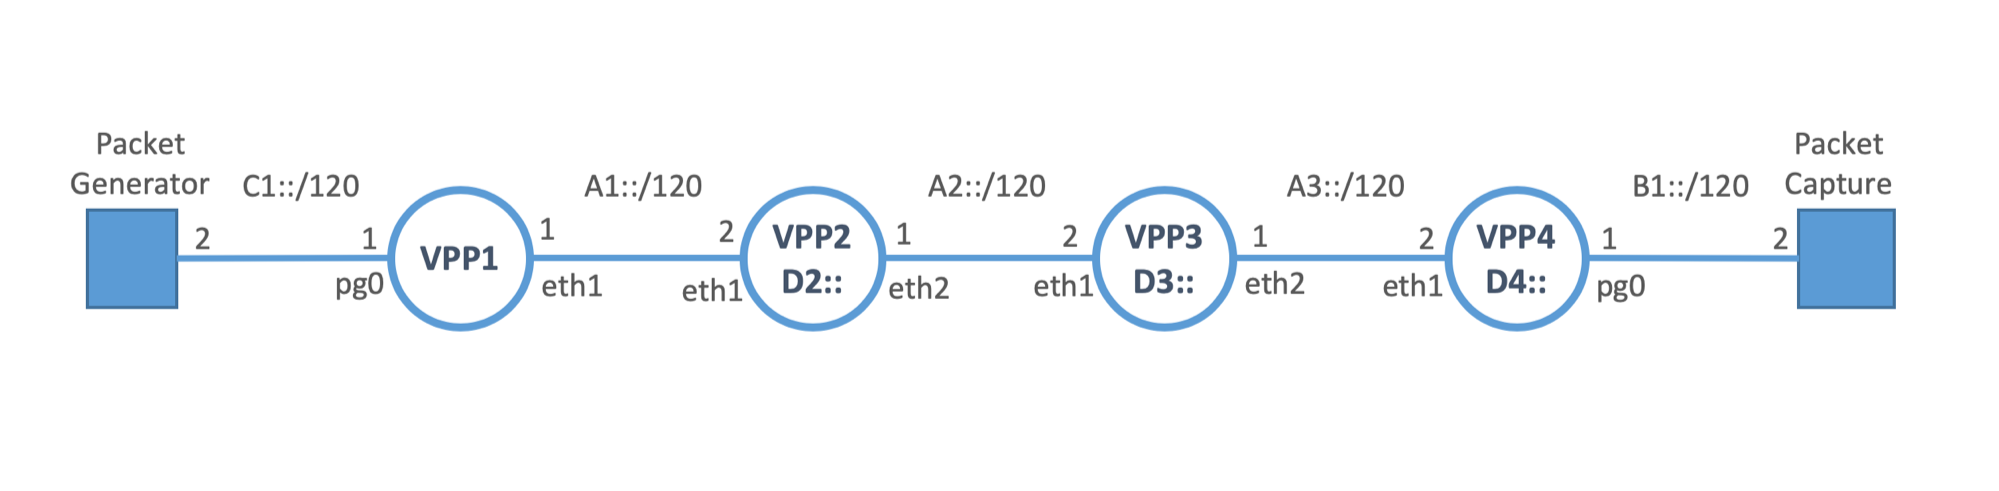
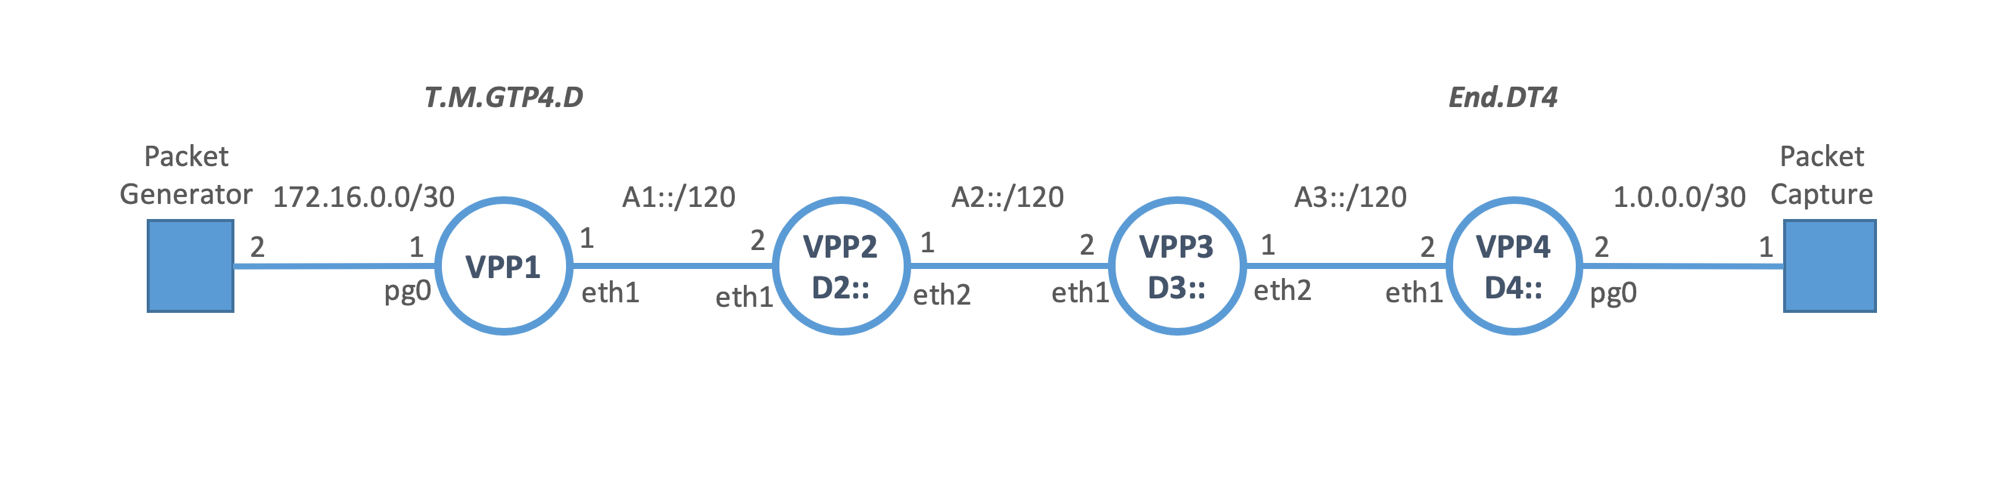
add text anf figure to test cases.

Changed region(s): [[0.031, 0.2784, 0.9615, 0.7113], [0.2171, 0.1546, 0.3102, 0.2165], [0.7134, 0.1546, 0.7754, 0.2165]]

diff --git a/README.md b/README.md
@@ -91,41 +91,61 @@ connecting to: hck-vpp-1
 vpp#
 ```
 
-### Test Scenarios
-#### SRv6 Drop-in for GTP-U/UDP/IPv4
+## Test Scenarios
+### SRv6 Drop-in between GTP-U tunnel
 
-![Topology Diagram](extras/ietf105/topo-test_gtp4.png)
+This test scenario introduces SRv6 path between GTP-U tunnel transparently. A GTP-U packet sent out from one end to another is translated to SRv6 and then back to GTP-U. All GTP-U tunnel identifiers are preserved in IPv6 header and SRH.
 
-IPv4 payload over GTP-U:
+
+#### GTP-U over UDP/IPv4 case
+
+This case uses SRv6 end functions, T.M.GTP4.D and End.M.GTP4.E.
+
+![Topology Diagram](extras/ietf105/topo-test_gtp4d.png)
+
+VPP1 is configured with "T.M.GTP4.D", and VPP4 is configured with "End.M.GTP4.E". Others are configured with "End". The packet generator sends a GTP-U packet over UDP/IPv4 toward the packet capture. VPP1 translates it to SRv6 toward D4::TEID with SR policy <D2::, D3::> in SRH. VPP4 translates the SRv6 packet to the original GTP-U packet and send out to the packet capture.
+
+To start this case with IPv4 payload over GTP-U, you can run:
 
 ```
 $ ./runner.py test tmap
 ```
 
-IPv6 payload over GTP-U:
+If you want to use IPv6 payload instead of IPv4, you can run:
 
 ```
 $ ./runner.py test tmap_ipv6
 ```
 
-#### SRv6 Drop-in for GTP-U/UDP/IPv6
 
-![Topology Diagram](extras/ietf105/topo-test_gtp6.png)
+#### GTP-U over UDP/IPv6 case
 
-IPv4 payload over GTP-U:
+This case uses SRv6 end functions, End.M.GTP6.D.Di and End.M.GTP6.E.
+
+![Topology Diagram](extras/ietf105/topo-test_gtp6d.png)
+
+VPP1 is configured with "End.M.GTP6.D.Di", and VPP4 is configured with "End.M.GTP4.E". Others are configured with "End". The packet generator sends a GTP-U packet over UDP/IPv6 toward D:: of the packet capture. VPP1 translates it to SRv6 toward D:: with SR policy <D2::, D3::, D4::TEID> in SRH. VPP4 translates the SRv6 packet to the original GTP-U packet and send out to the packet capture.
+
+To start this case with IPv4 payload over GTP-U, you can run:
 
 ```
 $ ./runner.py test gtp6_drop_in
 ```
 
-IPv6 payload over GTP-U:
+If you want to use IPv6 payload instead of IPv4, you can run:
 
 ```
 $ ./runner.py test gtp6_drop_in_ipv6
 ```
 
 
-#### SRv6 from GTP-U/UDP/IPv6
+### GTP-U to SRv6
+
+This test scenario demonstrates GTP-U to SRv6 translation. A GTP-U packet sent out from one end to another is translated to SRv6.
+
+#### GTP-U over UDP/IPv6 case
+
+![Topology Diagram](extras/ietf105/topo-test_gtp6.png)
 
 IPv4 payload over GTP-U:
 
